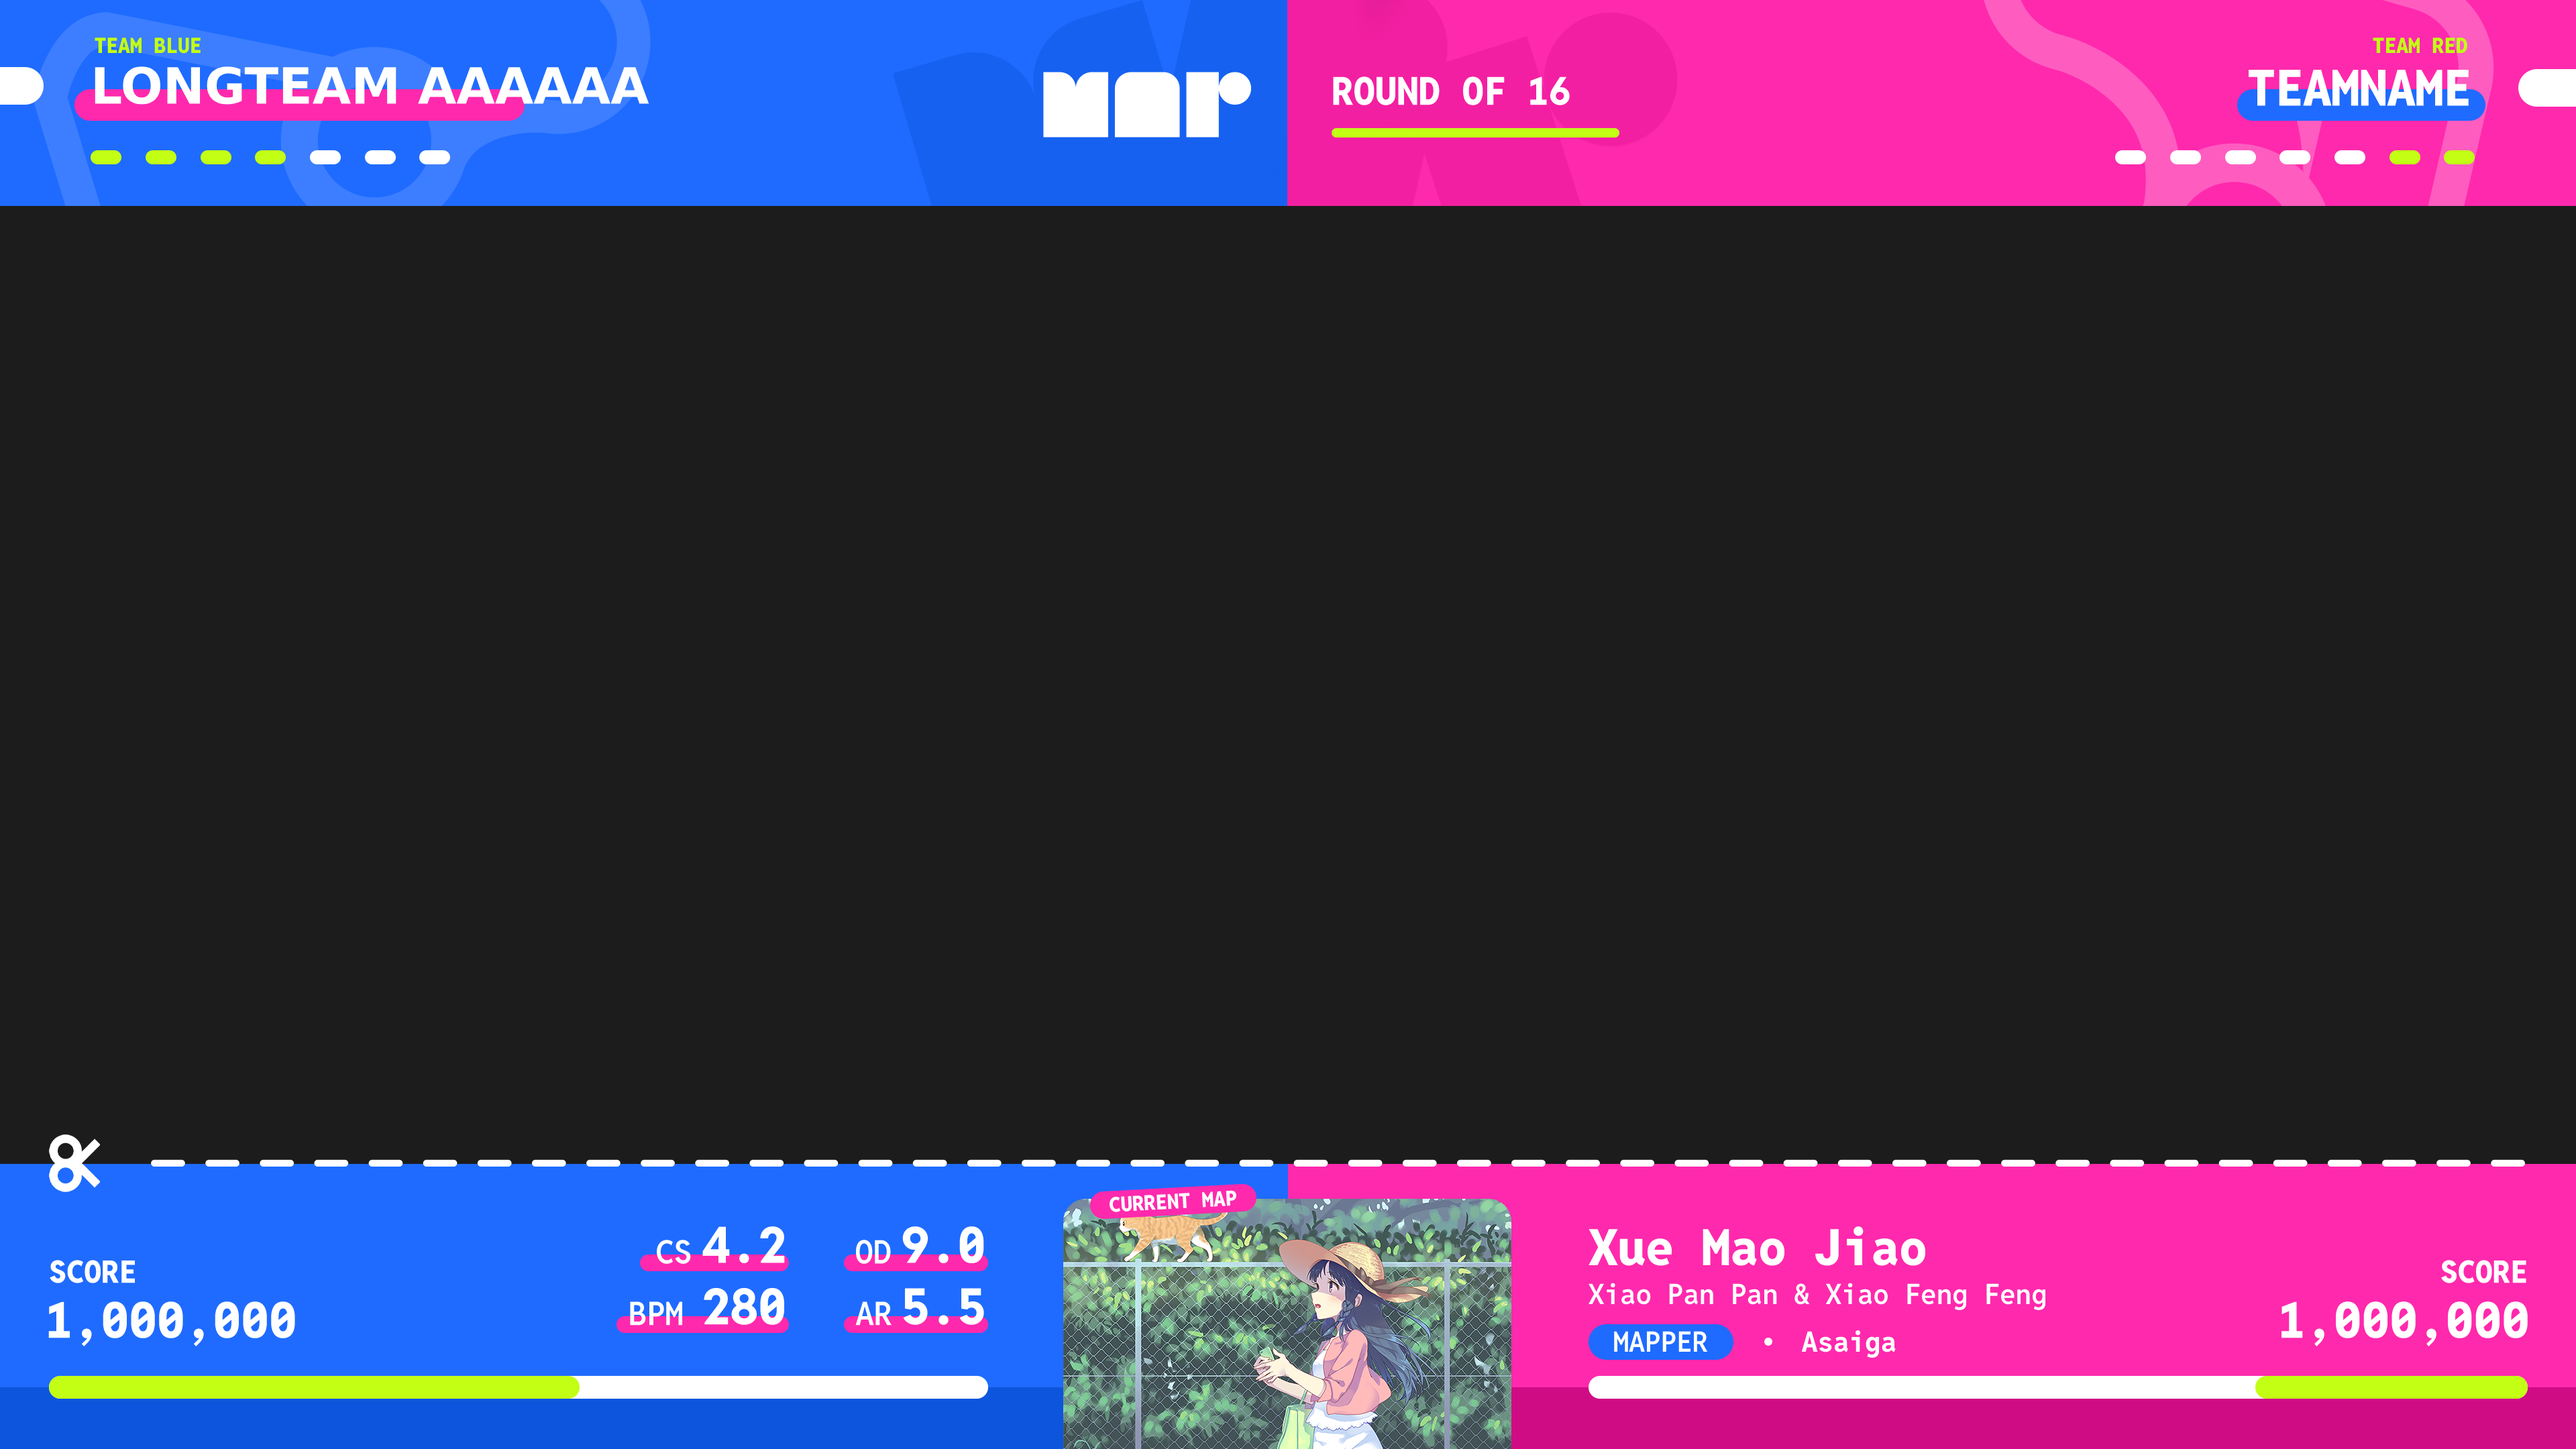
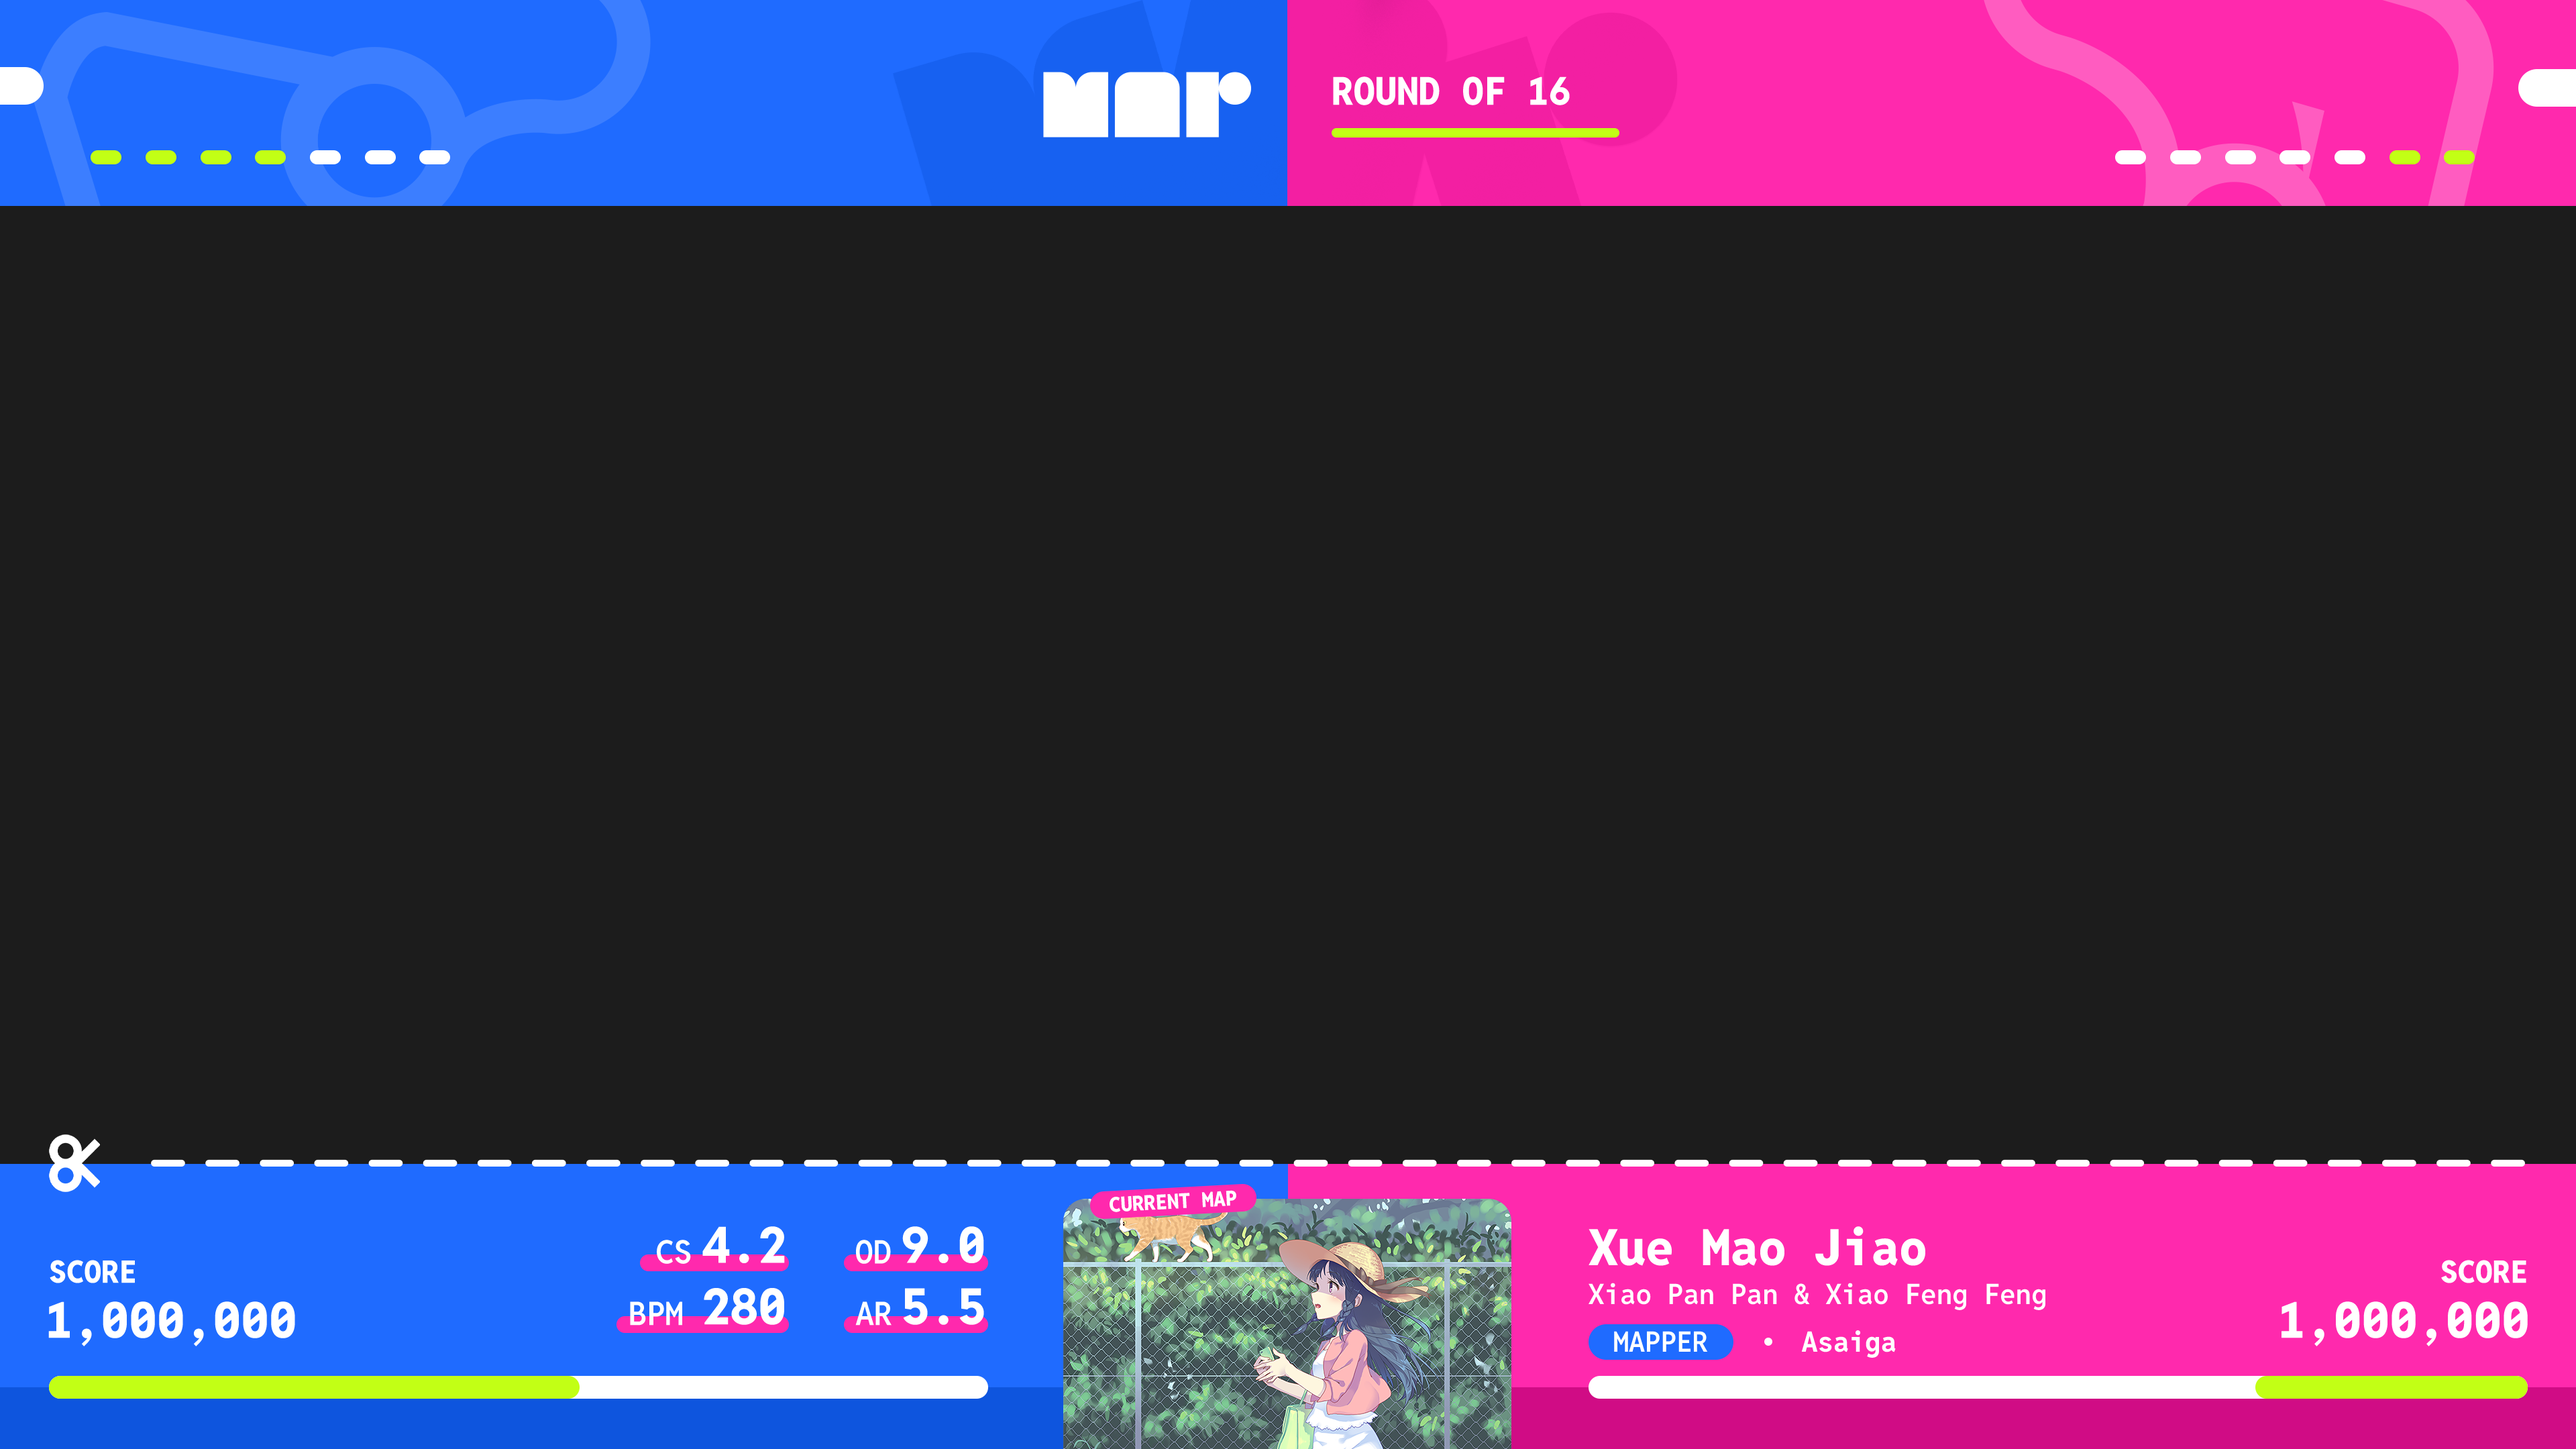
Add team name section

Changed region(s): [[0.0312, 0.031, 0.25, 0.0931], [0.8438, 0.031, 0.9688, 0.0931]]

diff --git a/main/style.css b/main/style.css
@@ -6,11 +6,13 @@
 
 body { margin: 0; }
 .main {
+    position: relative;
     margin: 0;
     width: 3840px;
     height: 2160px;
     background-image: url("static/background.png");
     font-family: "Reddit Mono";
+    font-weight: 800;
 }
 
 /* Team colour */
@@ -25,10 +27,10 @@ body { margin: 0; }
     font-size: 2rem;
     line-height: 42px;
     color: var(--green);
-    font-weight: 800;
 }
 
 /* Team Name Highlight */
+/* Max width is 671px; */
 .team-name-highlight-section {
     width: 3618px;
     display: flex;
@@ -43,3 +45,13 @@ body { margin: 0; }
 }
 #team-name-highlight-left { background-color: var(--red); }
 #team-name-highlight-right { background-color: var(--blue); }
+
+/* Team Name */
+.team-name {
+    position: absolute;
+    font-size: 75px;
+    line-height: 98px;
+    color: white;
+}
+#team-name-left { top: 80px; left: 129px; }
+#team-name-right { top: 80px; right: 129px;}

diff --git a/_shared/_shared.css b/_shared/_shared.css
@@ -1,29 +1,29 @@
 @font-face {
     font-family: "Reddit Mono";
-    src: url("../fonts/RedditMono-ExtraBold.woff2");
+    src: url("../fonts/RedditMono-ExtraBold.ttf");
     font-weight: 800;
 }
 
 @font-face {
     font-family: "Reddit Mono";
-    src: url("../fonts/RedditMono-Bold.woff2");
+    src: url("../fonts/RedditMono-Bold.ttf");
     font-weight: 700;
 }
 
 @font-face {
     font-family: "Reddit Mono";
-    src: url("../fonts/RedditMono-SemiBold.woff2");
+    src: url("../fonts/RedditMono-SemiBold.ttf");
     font-weight: 600;
 }
 
 @font-face {
     font-family: "Reddit Mono";
-    src: url("../fonts/RedditMono-Regular.woff2");
+    src: url("../fonts/RedditMono-Regular.ttf");
     font-weight: 400;
 }
 
 @font-face {
     font-family: "Reddit Mono";
-    src: url("../fonts/RedditMono-Light.woff2");
+    src: url("../fonts/RedditMono-Light.ttf");
     font-weight: 300;
 }

diff --git a/main/index.html b/main/index.html
@@ -22,6 +22,10 @@
             <div class="team-name-highlight" id="team-name-highlight-right"></div>
         </section>
 
+        <!-- Team Name -->
+        <div class="team-name" id="team-name-left">LONGTEAM AAAAAA</div>
+        <div class="team-name" id="team-name-right">TEAMNAME</div>
+
     </div>
 
     <script src="index.js"></script>
